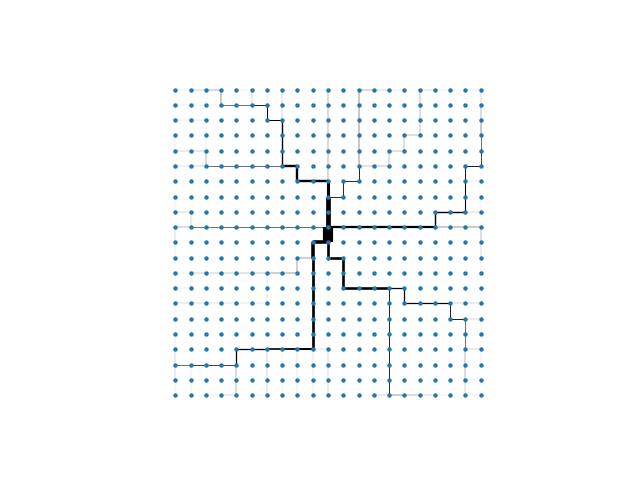
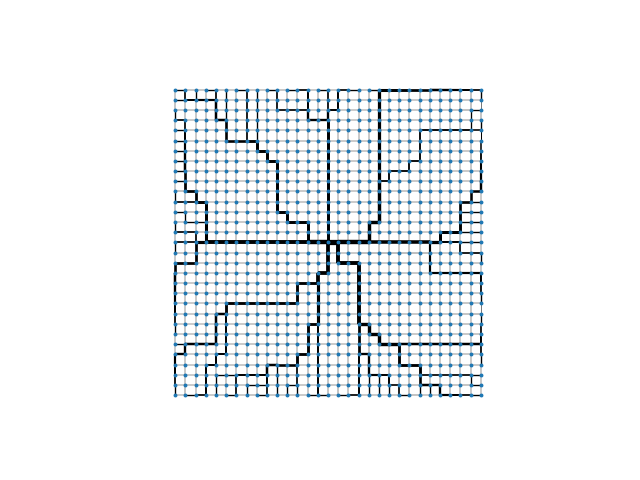
31x31, 'dt': 0.01, 'N': 2000 'a': 2.9, 'b': 1.3, 'gamma': 2/3, 'delta': 1.1, 'nu': 1.1, 'flow_hat': 1.1, 'c': 0.001, 'r': 1.3,

Changed region(s): [[0.25, 0.1562, 0.7812, 0.8438]]

diff --git a/Angiogenesis.py b/Angiogenesis.py
@@ -83,7 +83,7 @@ def generate_physical_values(graph, source_value, incidence_matrix, corridor_mod
     #print(np.allclose(incidence_T_inv @ incidence_T @ incidence_T_inv, incidence_T_inv))
     #print(np.allclose(incidence_T @ incidence_T_inv @ incidence_T, incidence_T))
 
-    eps = 0.99
+    eps = 0.9
     conductivity_list = np.ones(edges_dim) + np.random.default_rng().uniform(-eps, eps, edges_dim)  # ones + stochastic noise
     length_list = np.ones(edges_dim) # + np.random.default_rng().uniform(-eps, eps, edges_dim)        # vector from edges space
 
@@ -98,9 +98,6 @@ def generate_physical_values(graph, source_value, incidence_matrix, corridor_mod
         #print(dimension-int(np.sqrt(dimension)/2))
         #print("SOURCE", source_list)
 
-
-
-
     if two_capacitor_plates_model:
         source_list = np.zeros(dimension)             # vector from nodes space
         last_index = int(np.sqrt(dimension)-1)
@@ -113,8 +110,6 @@ def generate_physical_values(graph, source_value, incidence_matrix, corridor_mod
         print(dimension)
         print(last_index)
         print(nodes_on_one_side)
-
-
 
     if one_capacitor_plates_model:
         source_list = np.zeros(dimension)             # vector from nodes space
@@ -130,37 +125,6 @@ def generate_physical_values(graph, source_value, incidence_matrix, corridor_mod
         print(dimension)
         print(last_index)
         print(nodes_on_one_side)
-
-    if three_sides_model:
-        source_list = np.zeros(dimension)             # vector from nodes space
-        last_index = int(np.sqrt(dimension)-1)
-        nodes_on_one_side = int(np.sqrt(dimension)/2)
-        source_list[int(np.sqrt(dimension) / 2) - 1] = source_value
-        iterator = 0
-        for iterator in range(0, last_index+1, 2):
-            print(iterator)
-            source_list[dimension-2-iterator] = -source_value/nodes_on_one_side
-            iterator += 1
-        #print(source_list)
-        print(dimension)
-        print(last_index)
-        print(nodes_on_one_side)
-
-    if quater_model:
-        source_list = np.zeros(dimension)  # vector from nodes space
-        last_index = int(np.sqrt(dimension) - 1)
-        half_nodes_on_one_side = 3 * int(np.sqrt(dimension) / 2)
-        source_list[0] = source_value
-        iterator = 0
-        for iterator in range(0, last_index + 1, 2):
-            source_list[dimension - 1 - iterator] = -source_value / half_nodes_on_one_side
-            source_list[last_index * (iterator + 1)] = -source_value / half_nodes_on_one_side
-            source_list[(last_index + 1) * (iterator + 1)] = -source_value / half_nodes_on_one_side
-            iterator += 1
-        print(dimension)
-        print(last_index)
-        print(half_nodes_on_one_side)
-
 
     # source for square lattice -- eye retina model
     # works only for odd number of rows/columns -- only then a central node exists
@@ -179,11 +143,11 @@ def generate_physical_values(graph, source_value, incidence_matrix, corridor_mod
         print(-source_value / (4*np.sqrt(dimension)-4) * iterator)
         print(source_value)
 
-    """
+
     if triangular:
         source_list = np.zeros(dimension)
         source_list[int((dimension - 1) / 2)] = source_value
-        number_of_bordering_nodes = 12
+        number_of_bordering_nodes = 16
         last_index = int(np.sqrt(dimension) - 1)
         iterator = 0
         for node in graph.nodes:  # accessing nodes on the border of the network
@@ -192,7 +156,7 @@ def generate_physical_values(graph, source_value, incidence_matrix, corridor_mod
                 print(node)
             iterator += 1
 
-
+    """
     if side_to_side:
         source_list = np.zeros(dimension)
         last_index = int(np.sqrt(dimension)-1)
@@ -438,7 +402,7 @@ def draw_graph(graph, name, pos, conductivity_list, n):
     else:
         #nx.draw_networkx(graph, pos=pos)
         nx.draw_networkx_nodes(graph, pos=pos, node_size=200 / (2 * n))
-        nx.draw_networkx_edges(graph, pos=pos, width=np.float_power(conductivity_list, 1)*4)
+        nx.draw_networkx_edges(graph, pos=pos, width=np.float_power(conductivity_list, 1/4)*2)
 
     plt.axis('off')
     plt.axis('scaled')

diff --git a/Simulation.py b/Simulation.py
@@ -7,7 +7,7 @@ start_time = time.time()
 
 hexagonal = 0
 triangular = 0
-m = 21
+m = 31
 number_of_nodes = m*m
 #adjacency_matrix = an.generate_random_adjacent_matrix(number_of_nodes)
 # random graph
@@ -17,9 +17,9 @@ number_of_nodes = m*m
 incidence_matrix, graph, nodes_data, edges_data = an.generate_grid_graph(m, m, hexagonal=hexagonal, triangular=triangular)
 #graph.remove
 
-source_value = 2
+source_value = 10
 incidence_T_inv, x, x_dagger, incidence_inv, incidence_T, source_list, pressure_list, length_list, conductivity_list, flow_list, pressure_diff_list = \
-    an.generate_physical_values(graph, source_value, incidence_matrix, corridor_model=0, two_capacitor_plates_model=0, one_capacitor_plates_model=0, square_concentric_model=1, triangular=triangular)
+    an.generate_physical_values(graph, source_value, incidence_matrix, corridor_model=0, two_capacitor_plates_model=0, square_concentric_model=1, triangular=0)
 
 arguments = {'pressure_list': pressure_list, 'length_list': length_list, 'conductivity_list': conductivity_list,
              'flow_list': flow_list, 'pressure_diff_list': pressure_diff_list, 'incidence_matrix': incidence_matrix,
@@ -41,10 +41,10 @@ else:
 an.checking_Kirchhoffs_law(graph, source_list, flow_list)
 an.draw_graph(graph, "graph", pos, conductivity_list, m)
 print(edges_data)
-#print(nodes_data)
+print(nodes_data)
 
 # dK/dt = a*(q / q_hat)^(2*gamma) - b * K + c
-parameters_set = {'a': 2.9, 'b': 1.3, 'gamma': 2/3, 'delta': 1.1, 'nu': 1.1, 'flow_hat': 1.1, 'c': 0.001, 'r': 1.3, 'dt': 0.01, 'N': 2000}
+parameters_set = {'a': 2.9, 'b': 1.3, 'gamma': 2/3, 'delta': 1.1, 'nu': 1.1, 'flow_hat': 1.1, 'c': 0.001, 'r': 1.3, 'dt': 0.001, 'N': 10000}
 
 graph, conductivity_list = an.run_simulation(source_value, m, pos, nodes_data, edges_data, **arguments, **parameters_set, is_scaled=True, with_pruning=False)
 print(edges_data)
